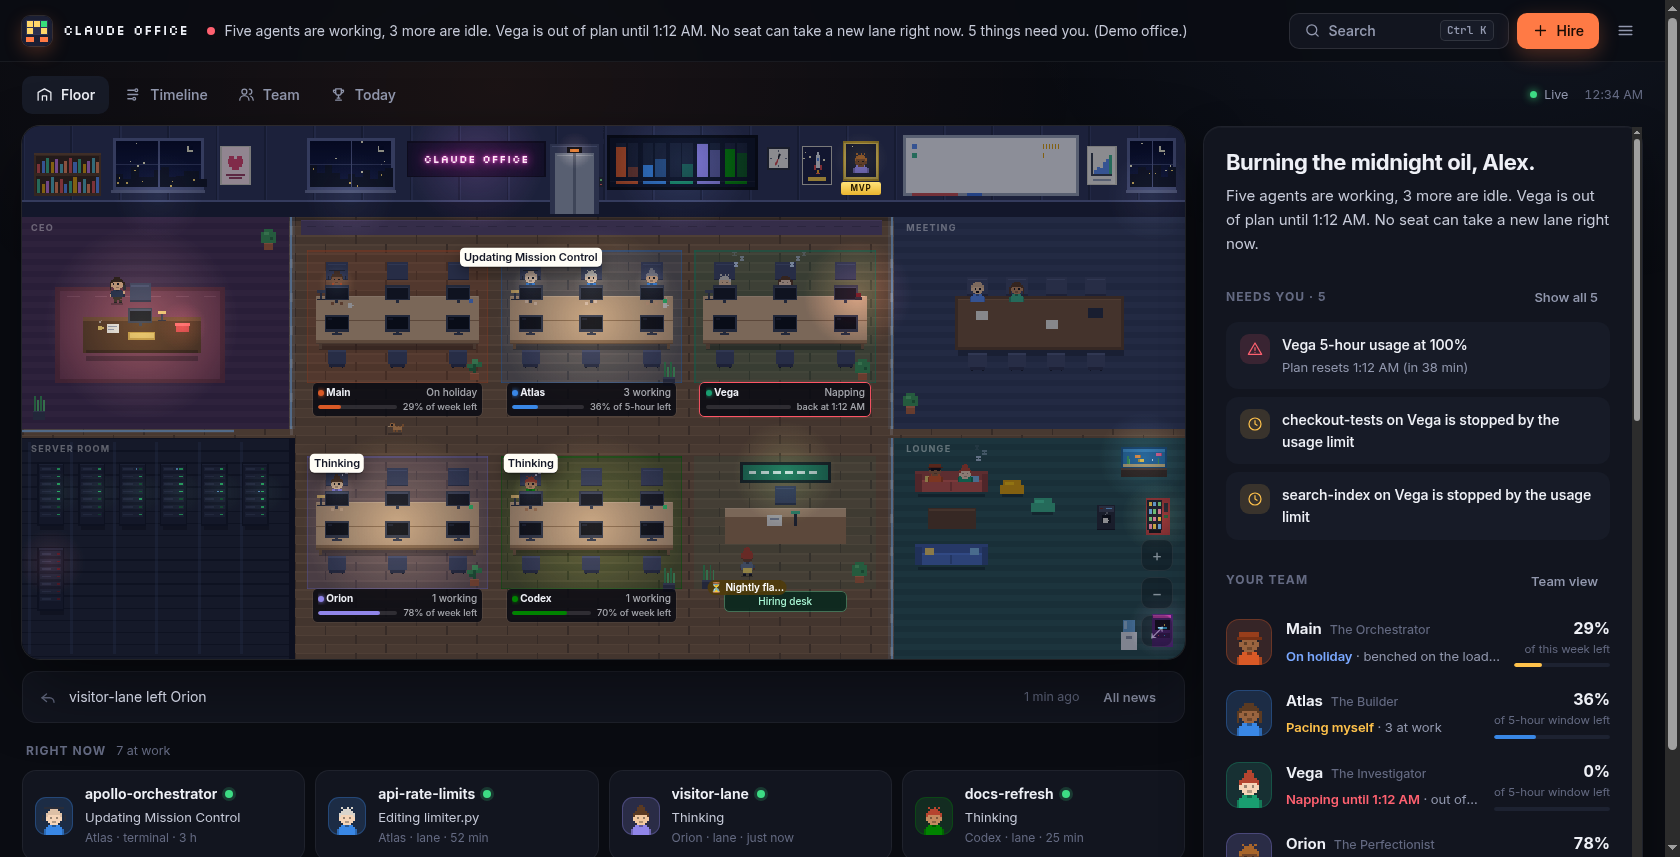
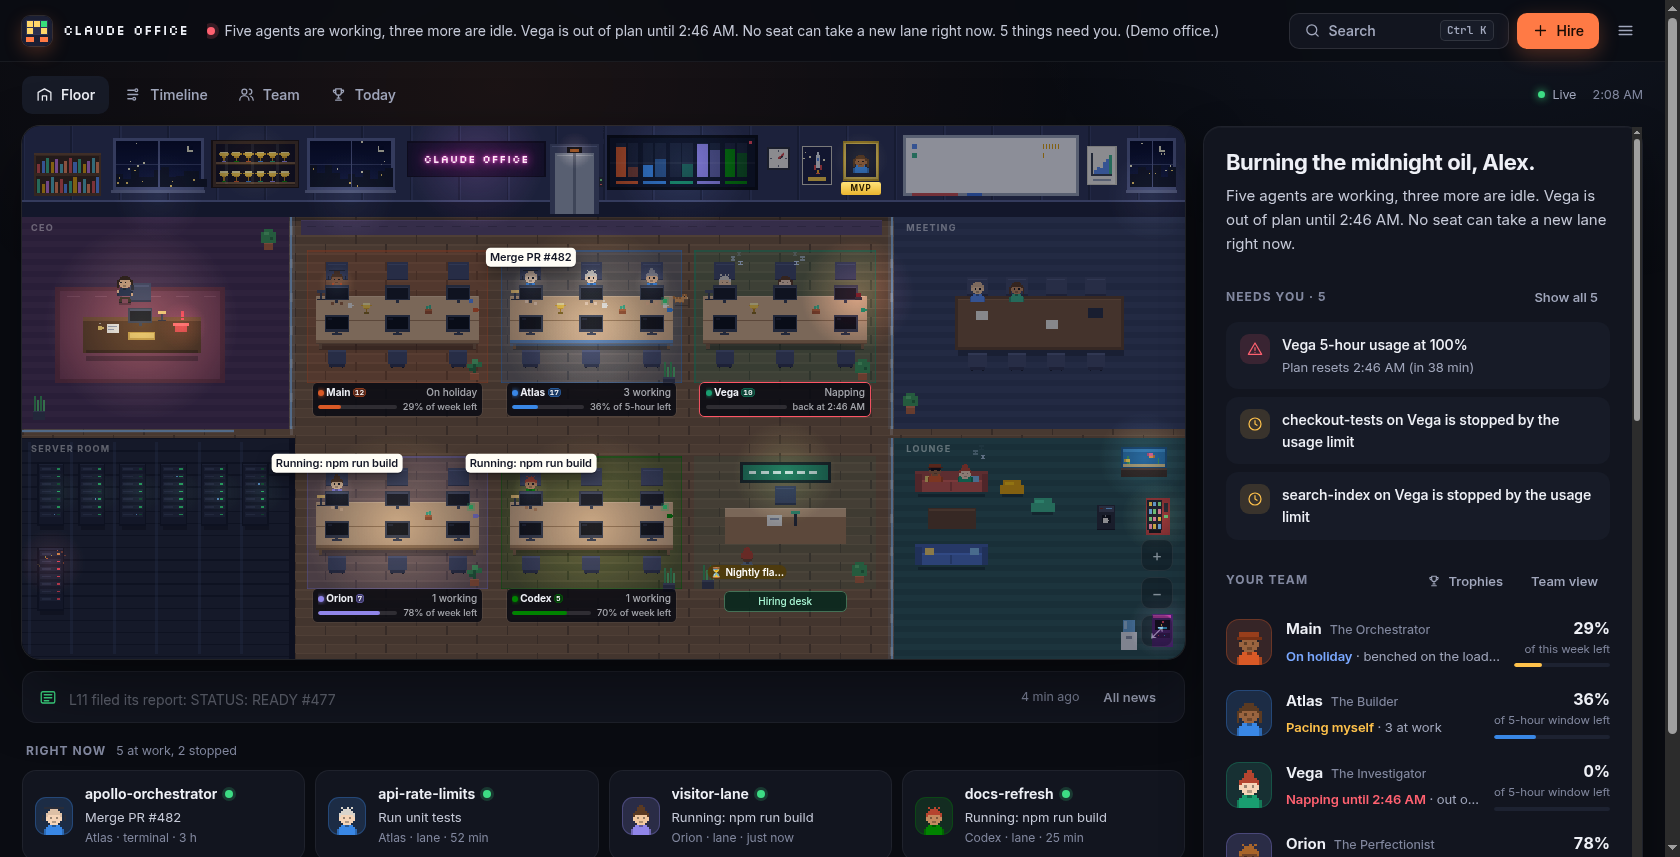
docs: re-shoot every screenshot for 3.0; add level-up, trophy room and trophy wall
All from demo mode (made-up seats). The README gallery gains a second row
for careers.

diff --git a/README.md b/README.md
@@ -15,6 +15,8 @@ desk.
 | The floor | Talk to a task | Your team |
 |---|---|---|
 | ![The office floor](docs/office.png) | ![Chat](docs/session.png) | ![Team](docs/team.png) |
+| **Level up** | **Trophy room** | **Trophy wall** |
+| ![A LEVEL UP banner sweeps the floor](docs/levelup.png) | ![The trophy room leaderboard](docs/trophies.png) | ![A character's career and trophy wall](docs/career.png) |
 
 ## Why
 
